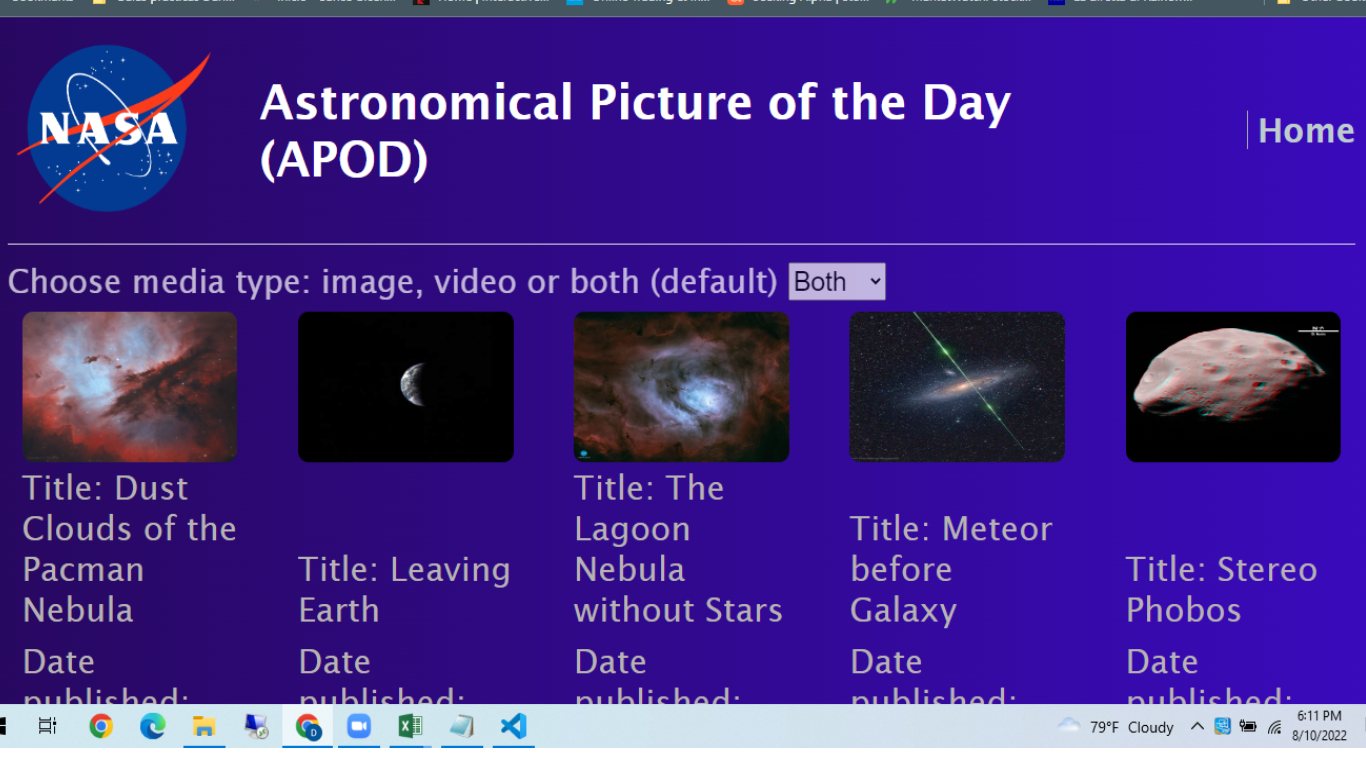
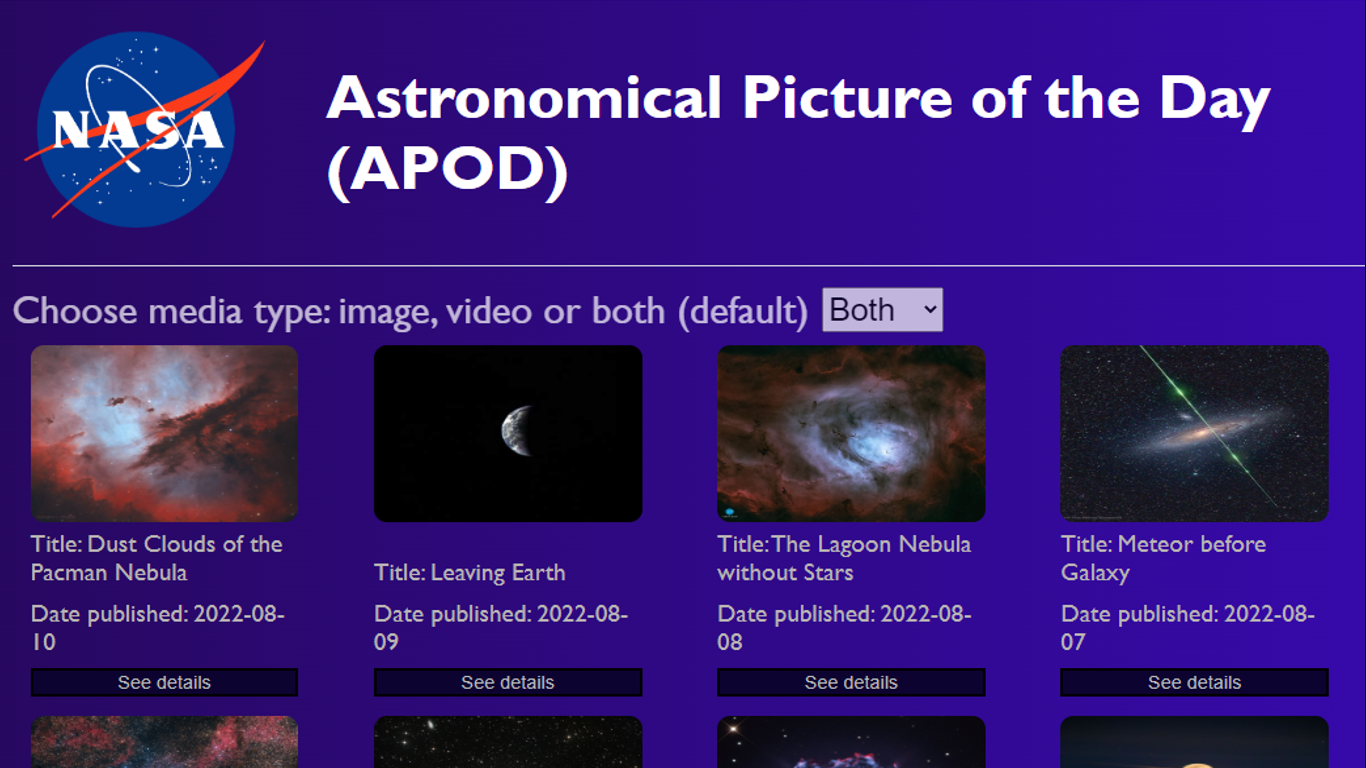
Update Readme file 4

diff --git a/src/App.css b/src/App.css
@@ -6,8 +6,8 @@ html {
 body {
   width: 95%;
   margin: 0 auto;
-  font-family: 'Lucida Sans', 'Lucida Sans Regular', 'Lucida Grande', 'Lucida Sans Unicode', Geneva, Verdana, sans-serif;
   background-image: linear-gradient(to right, rgb(39, 8, 95), rgb(58, 10, 189));
+  font-family: 'Gill Sans', 'Gill Sans MT', Calibri, 'Trebuchet MS', sans-serif;
 }
 
 .nav {
@@ -74,7 +74,7 @@ p {
 
 .logo-title {
   color: white;
-  font-size: 3.2vw;
+  font-size: 3.5vw;
 }
 
 .piclist {
@@ -119,17 +119,17 @@ p {
 }
 
 .pic-info__title {
-  font-size: 2.3vw;
+  font-size: 1.2rem;
 }
 
 .pic-info__date {
-  font-size: 2.3vw;
+  font-size: 1.2rem;
 }
 
 .pic-see-details {
   background-color: rgb(13, 3, 49);
   color: #bbb;
-  font-size: 1.2vw;
+  font-size: 0.9rem;
 }
 
 .pic-see-details:hover {
@@ -154,7 +154,7 @@ img {
   color: white;
   align-content: center;
   width: 100%;
-  font-size: 1.3rem;
+  font-size: 1.5rem;
   padding-bottom: 5px;
 }
 
@@ -164,6 +164,7 @@ img {
 
 .singlepic-info__rest {
   padding-bottom: 5px;
+  font-size: 1.7rem;
 }
 
 .form {
@@ -201,4 +202,31 @@ select {
   width: 27%;
   border-radius: 200px;
   height: 5px;
+}
+
+@media only screen and (max-width: 750px) {
+  .logo-title {
+    font-size: 6.5vw;
+  }
+
+  .pic-info__title {
+    font-size: 0.9rem;
+  }
+
+  .pic-info__date {
+    font-size: 0.9rem;
+  }
+
+  .form {
+    font-size: 0.9rem;
+  }
+
+  .nav-container__items a {
+    font-size: 4vw;
+  }
+
+  .singlepic-info__rest {
+    padding-bottom: 5px;
+    font-size: 1.4rem;
+  }
 }
